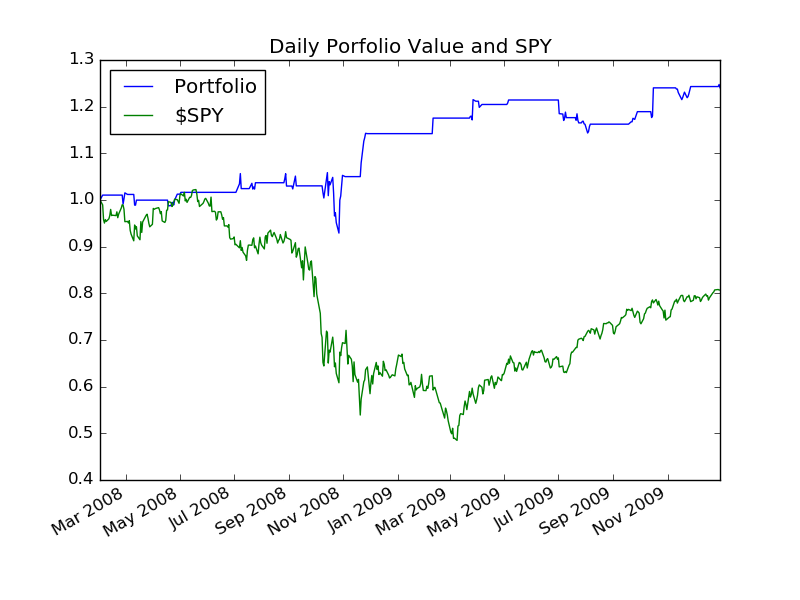
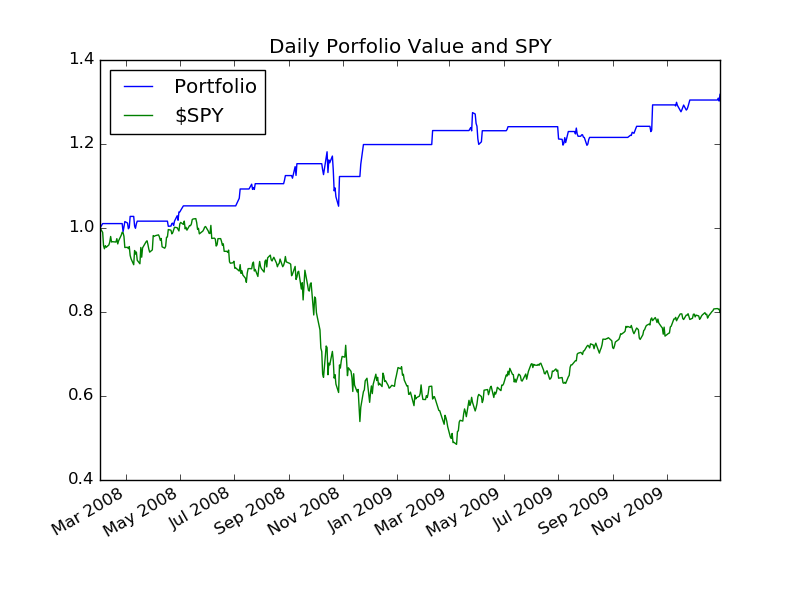
updated bollinger bands

diff --git a/mc2_p2/my_strategy_MFI.py b/mc2_p2/my_strategy_MFI.py
@@ -1,5 +1,4 @@
-"""MC2-P2: My Strategy RSI """
-
+"""MC2-P2: My Strategy MFI """
 import pandas as pd
 import os
 import numpy as np
@@ -12,16 +11,16 @@ def symbol_to_path(symbol, base_dir=os.path.join("..", "data")):
     """Return CSV file path given ticker symbol."""
     return os.path.join(base_dir, "{}.csv".format(str(symbol)))
 
-def get_data(symbols, dates, addSPY=True):
+def get_data_more(symbols, dates, addSPY=True):
     """Read stock data (adjusted close) for given symbols from CSV files."""
     df = pd.DataFrame(index=dates)
     if addSPY and 'SPY' not in symbols:  # add SPY for reference, if absent
-        symbols = ['SPY'] + symbols
+        symbols = ['$SPY'] + symbols
 
     for symbol in symbols:
         df_temp = pd.read_csv(symbol_to_path(symbol), index_col='Date',
-                parse_dates=True, usecols=['Date', 'Adj Close'], na_values=['nan'])
-        df_temp = df_temp.rename(columns={'Adj Close': symbol})
+                parse_dates=True, usecols=['Date', 'Adj Close', 'High', 'Low', 'Volume'], na_values=['nan'])
+        #df_temp = df_temp.rename(columns={'Adj Close': symbol})
         df = df.join(df_temp)
         if symbol == 'SPY':  # drop dates SPY did not trade
             df = df.dropna(subset=["SPY"])
@@ -73,13 +72,13 @@ def get_rsi_strategy(df):
         if (df.ix[i]['rsi'] < 30) and (invested_short == False):
              out_orders.append([df.index[i],'IBM', 'BUY', 'Short', 'SELL'])
              invested_short = True
-        elif (df.ix[i]['rsi'] > 35) and (invested_short == True):
+        elif (df.ix[i]['rsi'] > 30) and (invested_short == True):
             out_orders.append([df.index[i], 'IBM', 'SELL', 'Short', 'BUY'])
             invested_short = False
         elif (df.ix[i]['rsi'] > 70) and (invested_long == False):
              out_orders.append([df.index[i],'IBM', 'BUY', 'Long', 'BUY'])
              invested_long = True
-        elif (df.ix[i]['rsi'] < 65) and (invested_long == True) \
+        elif (df.ix[i]['rsi'] < 70) and (invested_long == True) \
             and (df.ix[i]['change_prop'] > 1.0):
             out_orders.append([df.index[i], 'IBM', 'SELL', 'Long', 'SELL'])
             invested_long = False
@@ -93,7 +92,7 @@ def get_rsi_strategy(df):
 
 def test_run():
     # Read data
-    dates = pd.date_range('2007-12-31', '2009-12-31') #Add in sample and out of sample dates
+    in_dates = pd.date_range('2007-12-31', '2009-12-31') #Add in sample and out of sample dates
     symbols = list(['IBM'])
     df = get_data(symbols, dates, addSPY=True)
     df_rsi = df.copy()

diff --git a/mc2_p2/bollinger_strategy.py b/mc2_p2/bollinger_strategy.py
@@ -61,22 +61,26 @@ def get_bollinger_strategy(df):
     df_shift = df.shift(1)
 
     for i in range(0, len(df)):
-        if (df.ix[i]['Price'] < df.ix[i]['upper_band']) and (invested_short == False) and \
+        if (df.ix[i]['Price'] <= df.ix[i]['upper_band']) and (invested_short == False) and \
                 (df_shift.ix[i]['Price'] > df_shift.ix[i]['upper_band']):
             out_orders.append([df.index[i],'IBM', 'BUY', 'Short', 'SELL'])
             invested_short = True
-        elif (df.ix[i]['Price'] < df.ix[i]['SMA']) and (invested_short == True) and \
+        elif (df.ix[i]['Price'] <= df.ix[i]['SMA']) and (invested_short == True) and \
                 (df_shift.ix[i]['Price'] > df.ix[i]['SMA']):
             out_orders.append([df.index[i],'IBM', 'SELL', 'Short', 'BUY'])
             invested_short = False
-        elif (df.ix[i]['Price'] > df.ix[i]['lower_band']) and (invested_long == False) and \
+        elif (df.ix[i]['Price'] >= df.ix[i]['lower_band']) and (invested_long == False) and \
                 (df_shift.ix[i]['Price'] < df_shift.ix[i]['lower_band']):
             out_orders.append([df.index[i], 'IBM', 'BUY', 'Long', 'BUY'])
             invested_long = True
-        elif (df.ix[i]['Price'] > df.ix[i]['SMA']) and (invested_long == True) and \
+        elif (df.ix[i]['Price'] >= df.ix[i]['SMA']) and (invested_long == True) and \
                 (df_shift.ix[i]['Price'] < df_shift.ix[i]['SMA']):
             out_orders.append([df.index[i], 'IBM', 'SELL', 'Long', 'SELL'])
             invested_long = False
+        elif (i == len(df) - 1) and (invested_long == True):
+            out_orders.append([df.index[i], 'IBM', 'SELL', 'Long', 'SELL'])
+        elif (i == len(df) - 1) and (invested_short == True):
+            out_orders.append([df.index[i],'IBM', 'SELL', 'Short', 'BUY'])
         else:
             pass
 
@@ -106,6 +110,7 @@ def test_run():
     combo_df.columns = ['Price', 'SMA', 'upper_band', 'lower_band']
     combo_df.rename(index={0:'Date'}, inplace=True)
     combo_df.to_csv('IBM.csv')
+    print combo_df
 
     orders = get_bollinger_strategy(combo_df)
 
